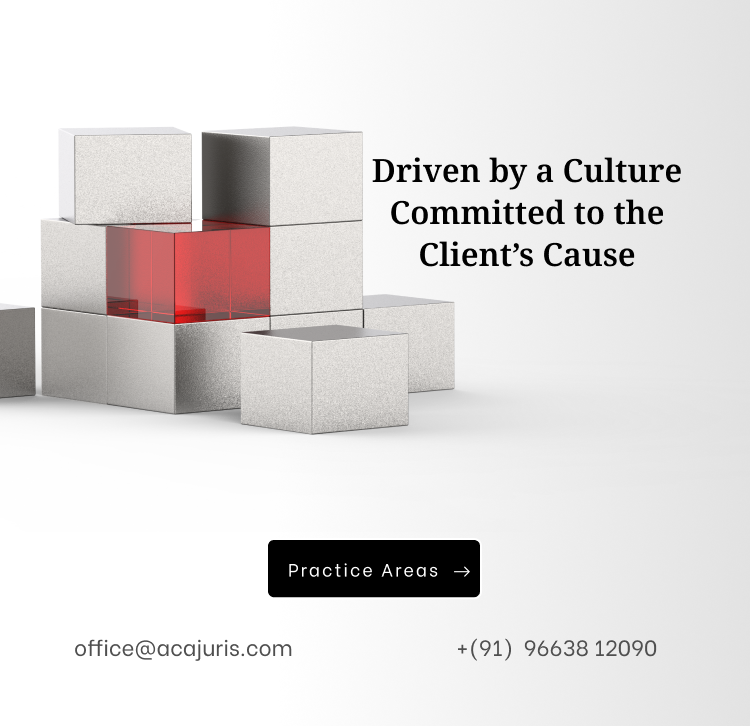
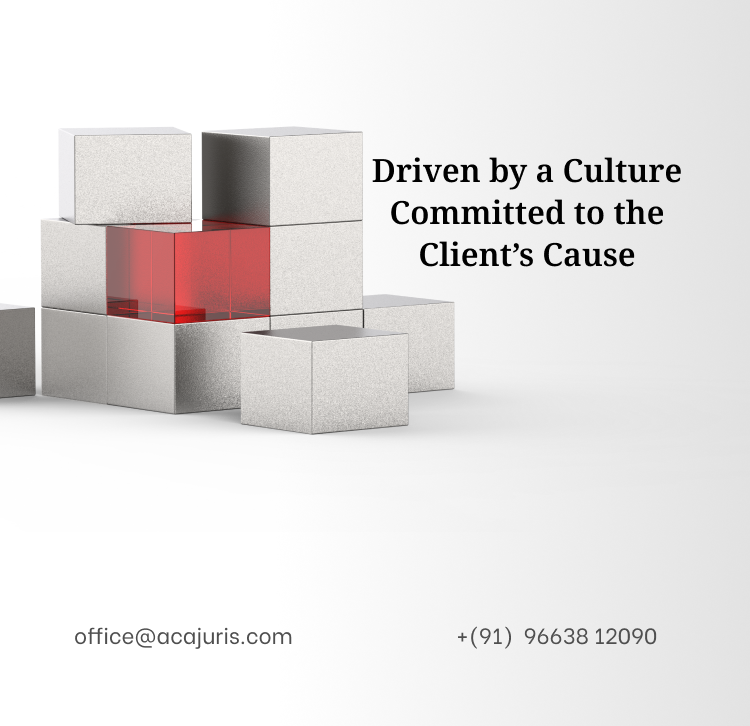
Update styles and components

Changed region(s): [[0.3373, 0.7273, 0.8893, 0.9091], [0.092, 0.8485, 0.3987, 0.9091]]

diff --git a/src/components/home/home.css b/src/components/home/home.css
@@ -229,7 +229,7 @@
 
 .hero-dots {
     position: absolute;
-    bottom: 20px;
+    bottom: 30px;
     left: 50%;
     transform: translateX(-50%);
     display: flex;
@@ -298,12 +298,12 @@
     .hero-content {
         position: relative;
         height: auto;
-        padding: 0px 0px 0px;
-        /* Adjusted top padding since dots are above now */
+        padding: 0 !important;
+        margin: -50px 0 0 0 !important;
         align-items: center;
         justify-content: flex-start;
         text-align: center;
-        background-color: #FDFBF7;
+        /* background-color: #FDFBF7; */
         order: 3;
     }
 
@@ -371,7 +371,6 @@
     }
 
     .hero-dots {
-        bottom: 20px;
         gap: 10px;
     }
 
@@ -709,15 +708,15 @@
     }
 
     .hero-dots {
-        position: relative;
+        /* position: relative; */
         top: auto;
-        bottom: auto;
+        /* bottom: auto; */
         left: auto;
         transform: none;
         width: 100%;
         display: flex;
         justify-content: center;
-        margin-top: 20px;
+        /* margin-top: 20px; */
         order: 2;
     }
 
@@ -819,21 +818,20 @@
 .about-content {
     max-width: 1200px;
     margin: 0 auto;
-    padding: 0 0 0 20px;
+    padding: 0px 20px 0 20px;
     text-align: left;
 }
 
 .about-content h2 {
     font-family: 'Be Vietnam', sans-serif;
-    font-size: 27px;
+    font-size: 25px;
     font-style: normal;
-    font-weight: 500;
+    font-weight: 300;
     line-height: 44px;
     color: #3A3A3A;
     text-align: center;
     margin-bottom: 20px;
 }
-
 .about-content p {
     max-width: 100%;
     margin: 0 0 30px 0;
@@ -884,13 +882,13 @@
     }
 
     .about-content h2 {
-        font-size: 26px;
+        font-size: 23px;
         line-height: normal;
     }
 
     .about-content p {
-        font-size: 16px;
-        text-align: left;
+        font-size: 15px;
+        /* text-align: left; */
         /* text-align: justify; */
     }
 }
@@ -1302,6 +1300,7 @@
     border-radius: 4px;
     margin-bottom: 15px;
     position: relative;
+    border: 3px solid #000000;
 }
 
 .img-wrap img {
@@ -1468,7 +1467,7 @@
     max-width: 97%;
     margin-bottom: 24px;
     font-family: "Be Vietnam", sans-serif;
-    font-size: 16px;
+    font-size: 15px;
     font-style: normal;
     font-weight: 300;
     line-height: 25px;

diff --git a/src/components/home/about.jsx b/src/components/home/about.jsx
@@ -8,7 +8,7 @@ export default function About() {
   return (
     <section className="about-wrapper">
       <div className="container">
-        <div className="about-bg">`   `
+        <div className="about-bg">
           <div className="about-content">
             <h2>Amar Correa Associates, Juris</h2>
 
